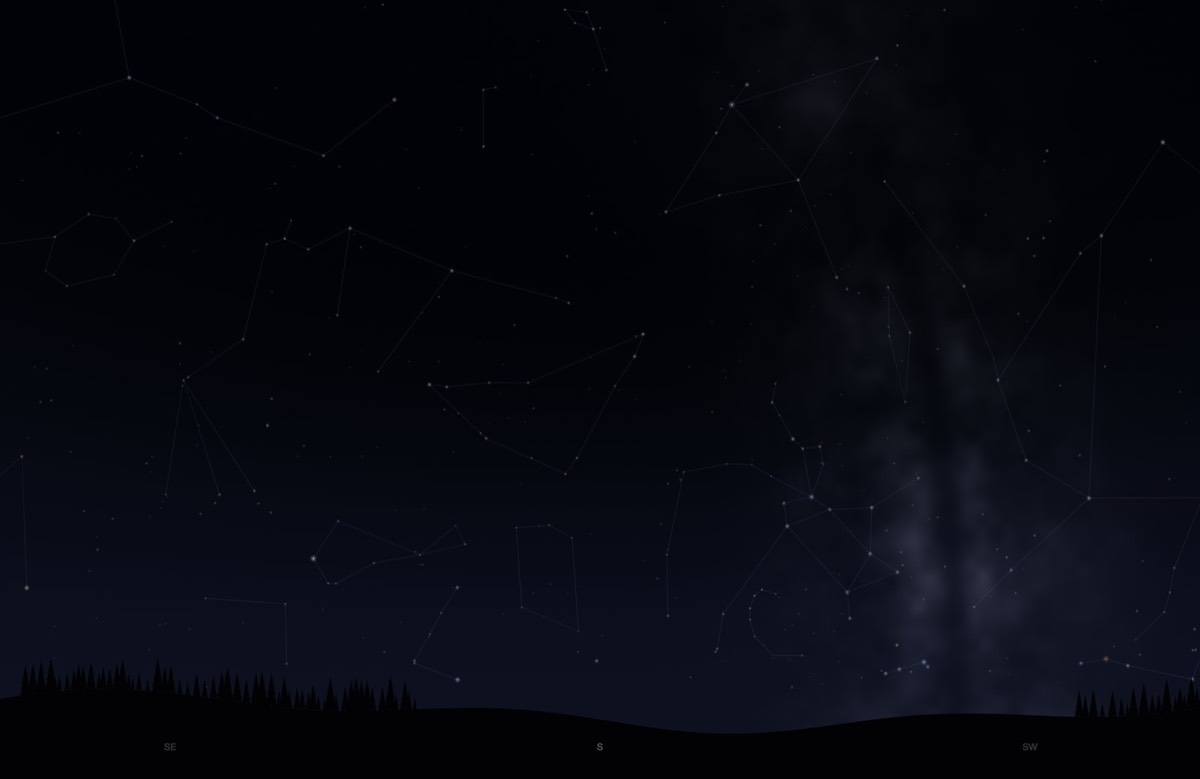
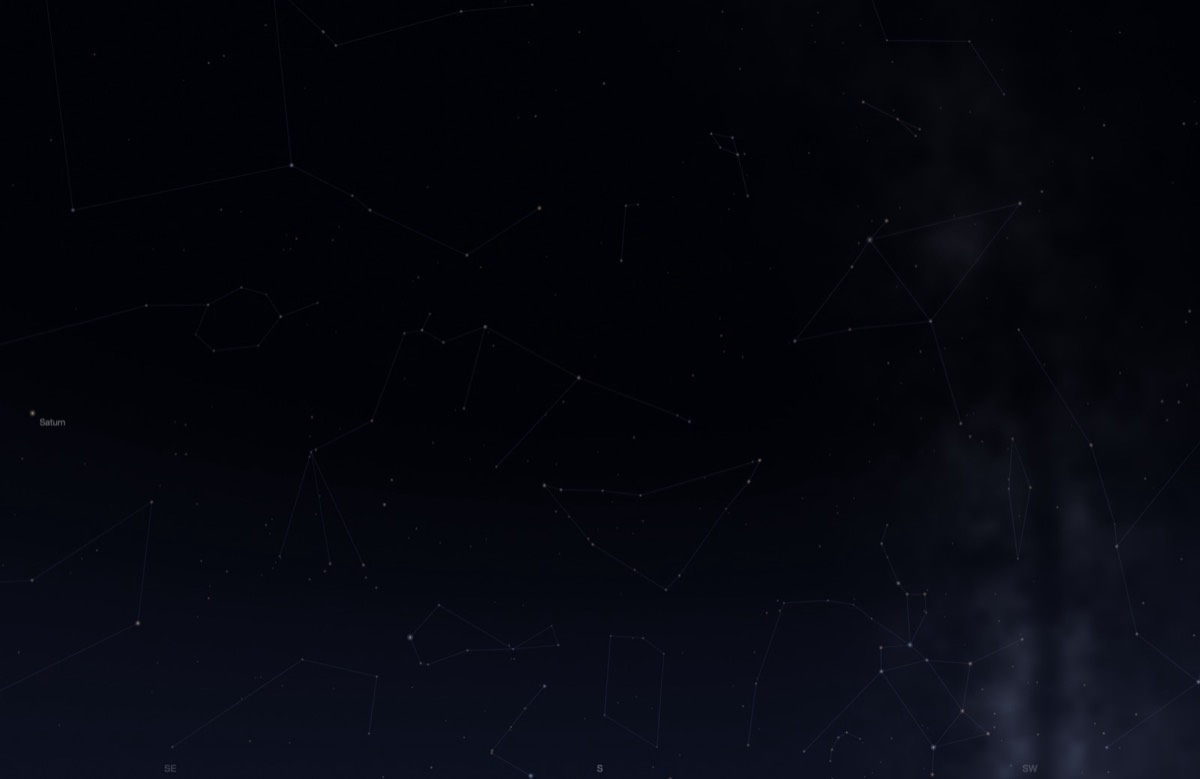
Live Sky: no landscape by default
Dave asked for the bare sky to be the default once he had the switch:
the sky fills the screen down to the horizon unless Settings turns a
landscape on. The README screenshot and the Settings preview are
re-rendered to match. 0.81.2.

Changed region(s): [[0.0, 0.8626, 1.0, 1.0], [0.74, 0.6162, 0.8325, 0.801], [0.0308, 0.5237, 0.0617, 0.5546]]

diff --git a/Sources/Atrium/LiveSky.swift b/Sources/Atrium/LiveSky.swift
@@ -11,7 +11,7 @@ final class LiveSky: SKScene {
         Knob(key: "sky.constellations", label: "Constellation lines", range: 0...1, standard: 1, section: "Show",
              format: .toggle),
         Knob(key: "sky.planetLabels", label: "Planet labels", range: 0...1, standard: 1, section: "Show", format: .toggle),
-        Knob(key: "sky.landscape", label: "Show a landscape", range: 0...1, standard: 1, section: "Landscape",
+        Knob(key: "sky.landscape", label: "Show a landscape", range: 0...1, standard: 0, section: "Landscape",
              format: .toggle),
         Knob(key: "sky.previewTime", label: "Preview a time of day", range: 0...1, standard: 0, section: "Preview",
              format: .toggle),

diff --git a/docs/live-sky.md b/docs/live-sky.md
@@ -1,6 +1,6 @@
 # Live Sky
 
-The real sky above the viewer right now, looking toward the equator: about 2,900 stars, the Milky Way, constellation lines, the five naked-eye planets, the Moon in its true phase and tilt, the ISS when it's overhead and sunlit, and an occasional meteor, above a treeline. It stays a night sky, but it reacts to the Sun: deep blue by day with only the brightest objects, the Sun drawn when it's in view, and sunrise and sunset glow at their real times.
+The real sky above the viewer right now, looking toward the equator: about 2,900 stars, the Milky Way, constellation lines, the five naked-eye planets, the Moon in its true phase and tilt, the ISS when it's overhead and sunlit, and an occasional meteor. The sky fills the screen down to the horizon unless Settings puts a landscape under it. It stays a night sky, but it reacts to the Sun: deep blue by day with only the brightest objects, the Sun drawn when it's in view, and sunrise and sunset glow at their real times.
 
 - **Files:**
   - `Sources/Atrium/LiveSky.swift`: the scene.
@@ -13,7 +13,7 @@ The real sky above the viewer right now, looking toward the equator: about 2,900
 - **Kind:** hybrid. The background and the Moon are SKShaders; stars, planets, the Sun, the ISS, labels and meteors are sprites; the ground is a Core Graphics texture.
 
 ## How it works
-- **Projection.** A stereographic projection centred on the horizon point the view faces: south, or north when latitude < 0 (`facingSouth`). Great circles through the centre stay straight, so the horizon is a straight line. `scale` gives about a 120° horizontal field of view; `horizonY` sits 12% up the screen (`landHorizon`), or on its bottom edge while the landscape is switched off, so the sky fills the screen and nothing in it is below the horizon. `project()` returns nil for points behind the viewer (`1 + forward <= 0.2`). `place()` hides a node that's below the horizon (z < −0.01) or more than 30 pt off-screen.
+- **Projection.** A stereographic projection centred on the horizon point the view faces: south, or north when latitude < 0 (`facingSouth`). Great circles through the centre stay straight, so the horizon is a straight line. `scale` gives about a 120° horizontal field of view; `horizonY` sits on the screen's bottom edge, so the sky fills the screen and nothing in it is below the horizon, or 12% up (`landHorizon`) while a landscape shows. `project()` returns nil for points behind the viewer (`1 + forward <= 0.2`). `place()` hides a node that's below the horizon (z < −0.01) or more than 30 pt off-screen.
 - **Frames.** Equatorial directions are J2000 unit vectors. `Sky.horizonMatrix(jd:latitude:longitude:)` turns them into (east, north, up). `refresh()` recomputes every position every 5 s, and on any settings change.
 - **Background shader** (`addSkyBackground`): each pixel is un-projected back onto the sphere, as (right, up, forward).
   - It mixes a night gradient and a day gradient by `u_day`.
@@ -68,7 +68,7 @@ The real sky above the viewer right now, looking toward the equator: about 2,900
 |---|---|---|---|---|
 | `sky.constellations` | Constellation lines | toggle | on | `constellations.isHidden` |
 | `sky.planetLabels` | Planet labels | toggle | on | the planet nodes' label children |
-| `sky.landscape` | Show a landscape | toggle | on | `ground.isHidden`, and `horizonY` (12% up, or the bottom edge) through `u_horizon` |
+| `sky.landscape` | Show a landscape | toggle | off | `ground.isHidden`, and `horizonY` (12% up, or the bottom edge) through `u_horizon` |
 | `sky.previewTime` | Preview a time of day | toggle | off | `skyDate` uses the preview hour |
 | `sky.previewHour` | Time (shown while previewing) | 0–24 h | 13:00 | the hour for `skyDate` |
 
@@ -107,7 +107,7 @@ The real sky above the viewer right now, looking toward the equator: about 2,900
 - **Moon.** "Show the moon phase as it would from my location" meant that the Moon itself should be accurate. A bottom-left phase badge was added, then removed at his request as redundant. Don't bring back a HUD for this.
 - **Moon's terminator (2026-10-03).** In Weather he saw the half Moon end in a hard edge by day, where the real one fades into the sky, and asked for Live Sky to be checked too. Both now share `moonShade`. Live Sky had also drawn the dark side as a black half-disc on the blue day sky.
 - **Switches.** He asked for the constellation and planet-label switches.
-- **Landscape (2026-10-05).** He asked for a switch to turn the landscape off, and for more silhouettes to choose between. Off means no ground at all, not a flat one: the horizon drops to the bottom edge.
+- **Landscape (2026-10-05).** He asked for a switch to turn the landscape off, and for more silhouettes to choose between. Off means no ground at all, not a flat one: the horizon drops to the bottom edge. Once he had the switch he asked for off to be the default ("i think we should default to no landscape").
 - **Preview.** Added so he could see the daytime look on demand.
 
 ## Ideas / next steps
